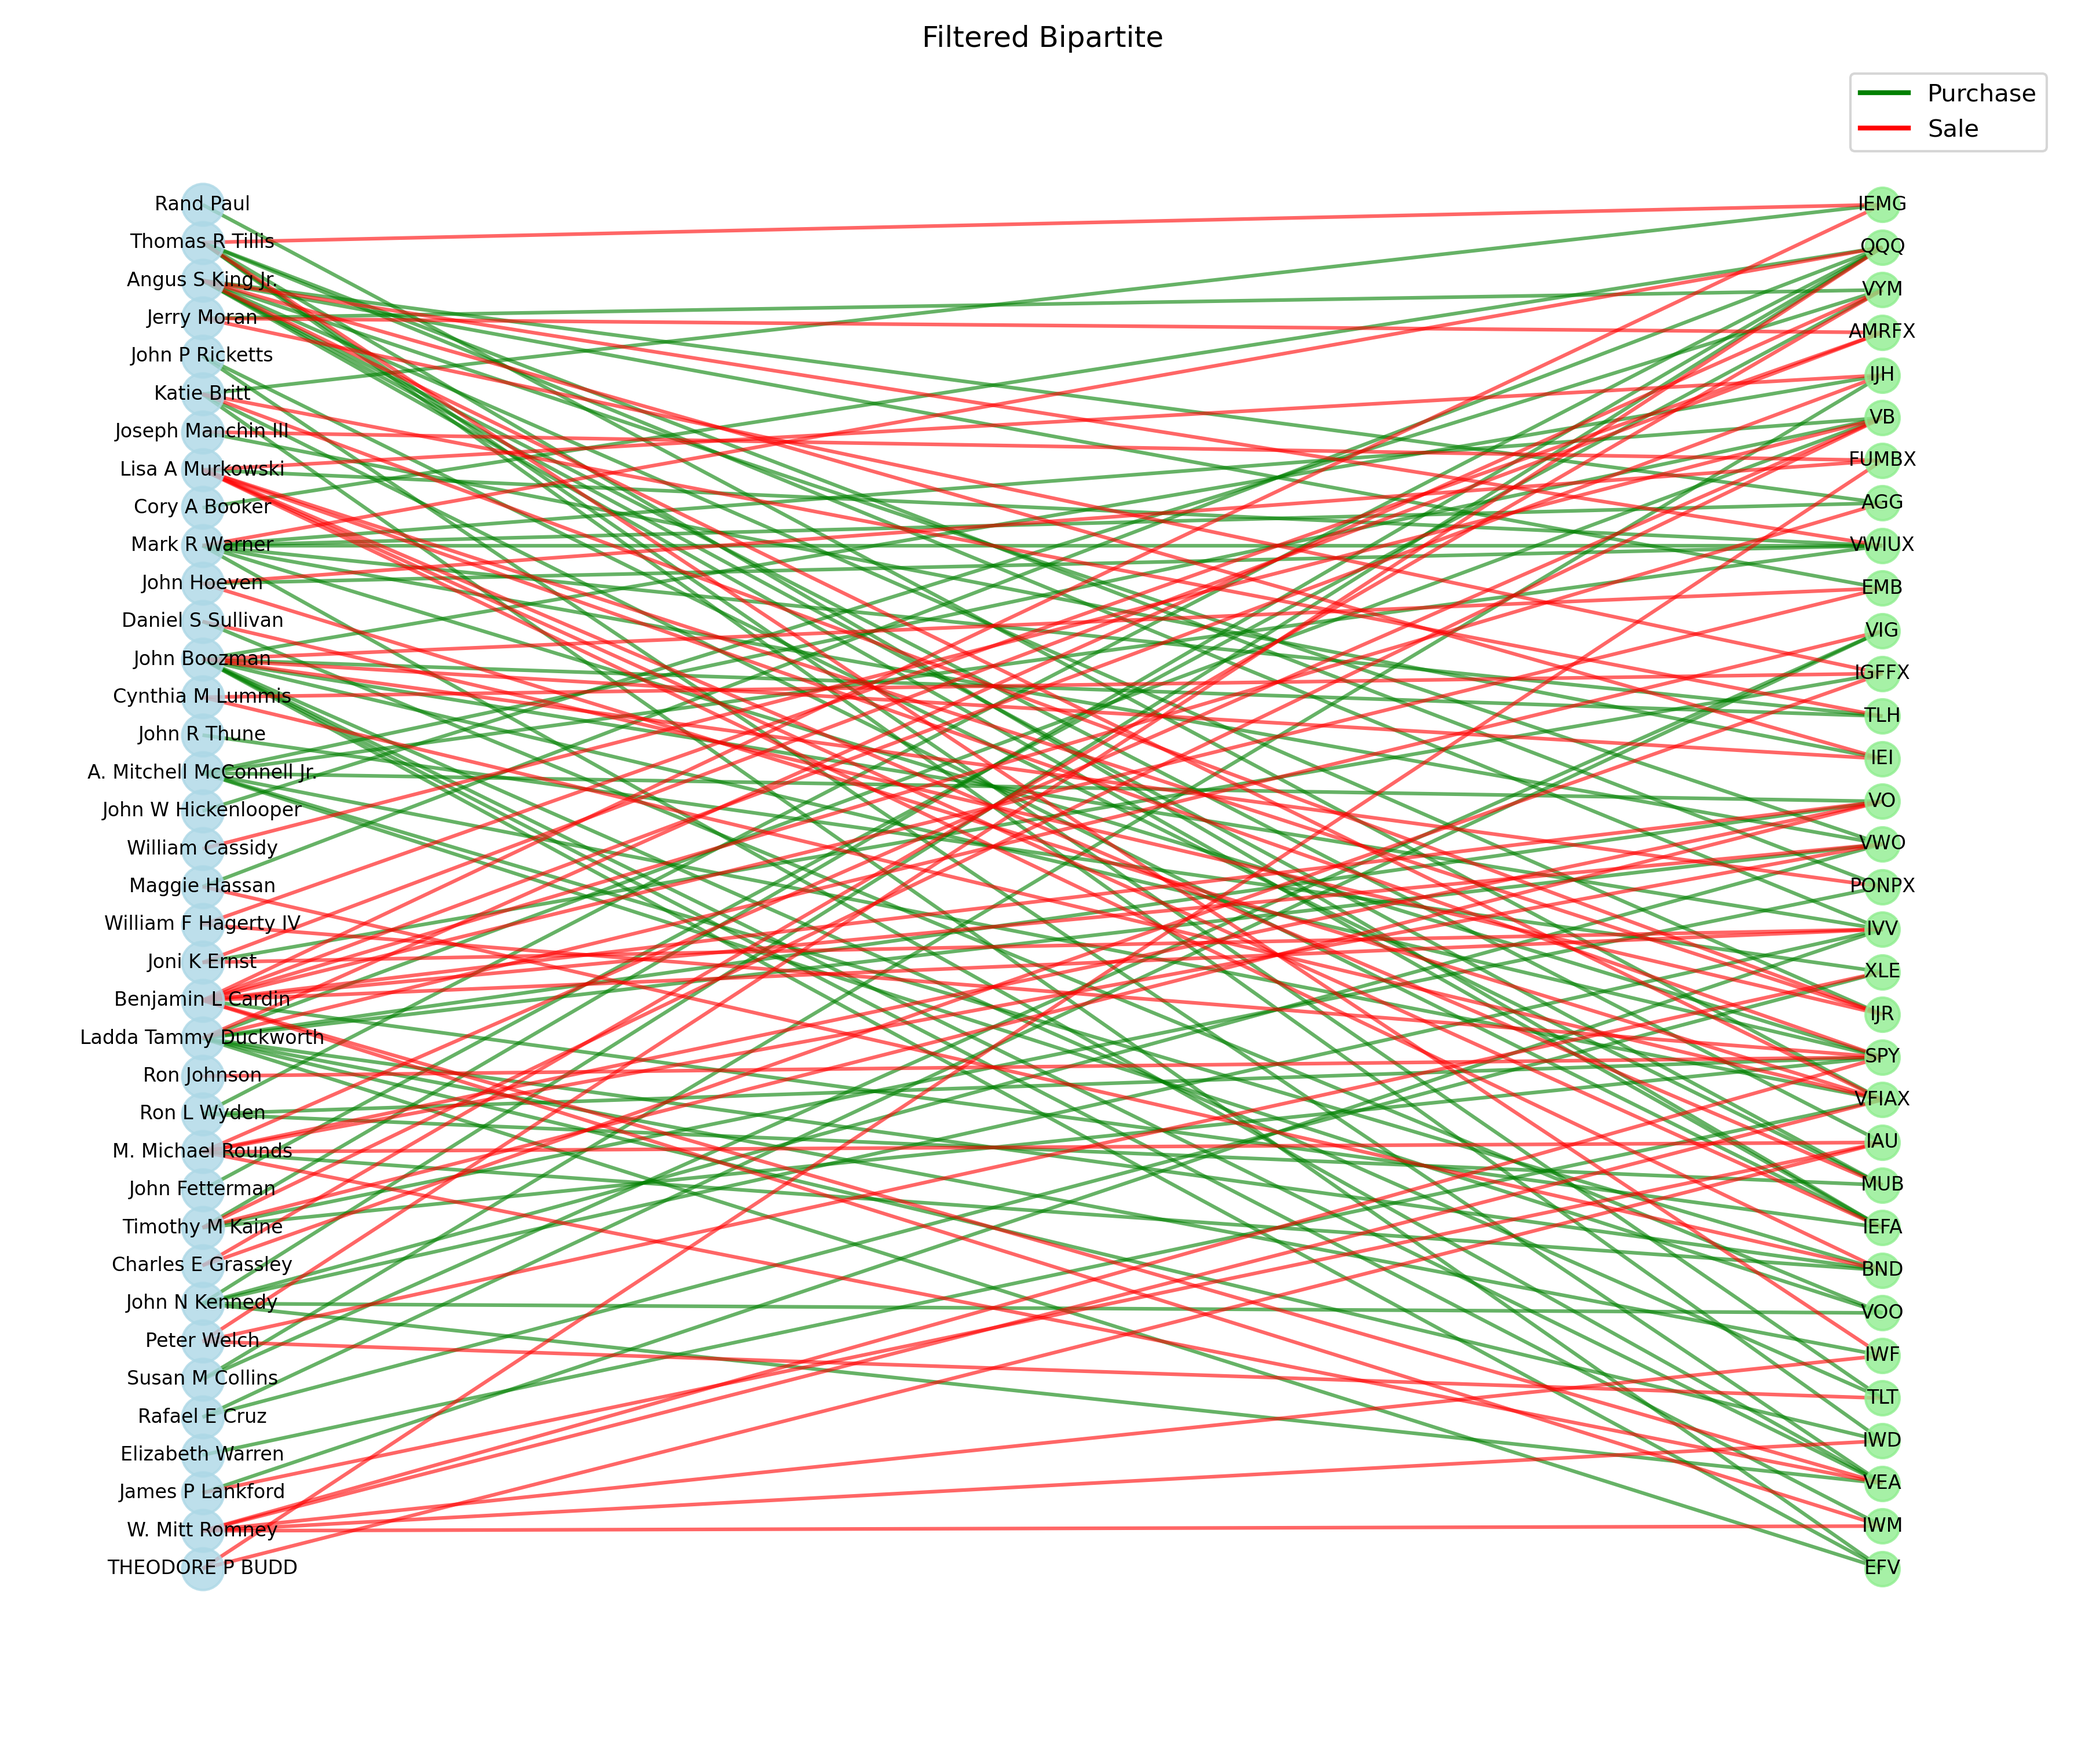
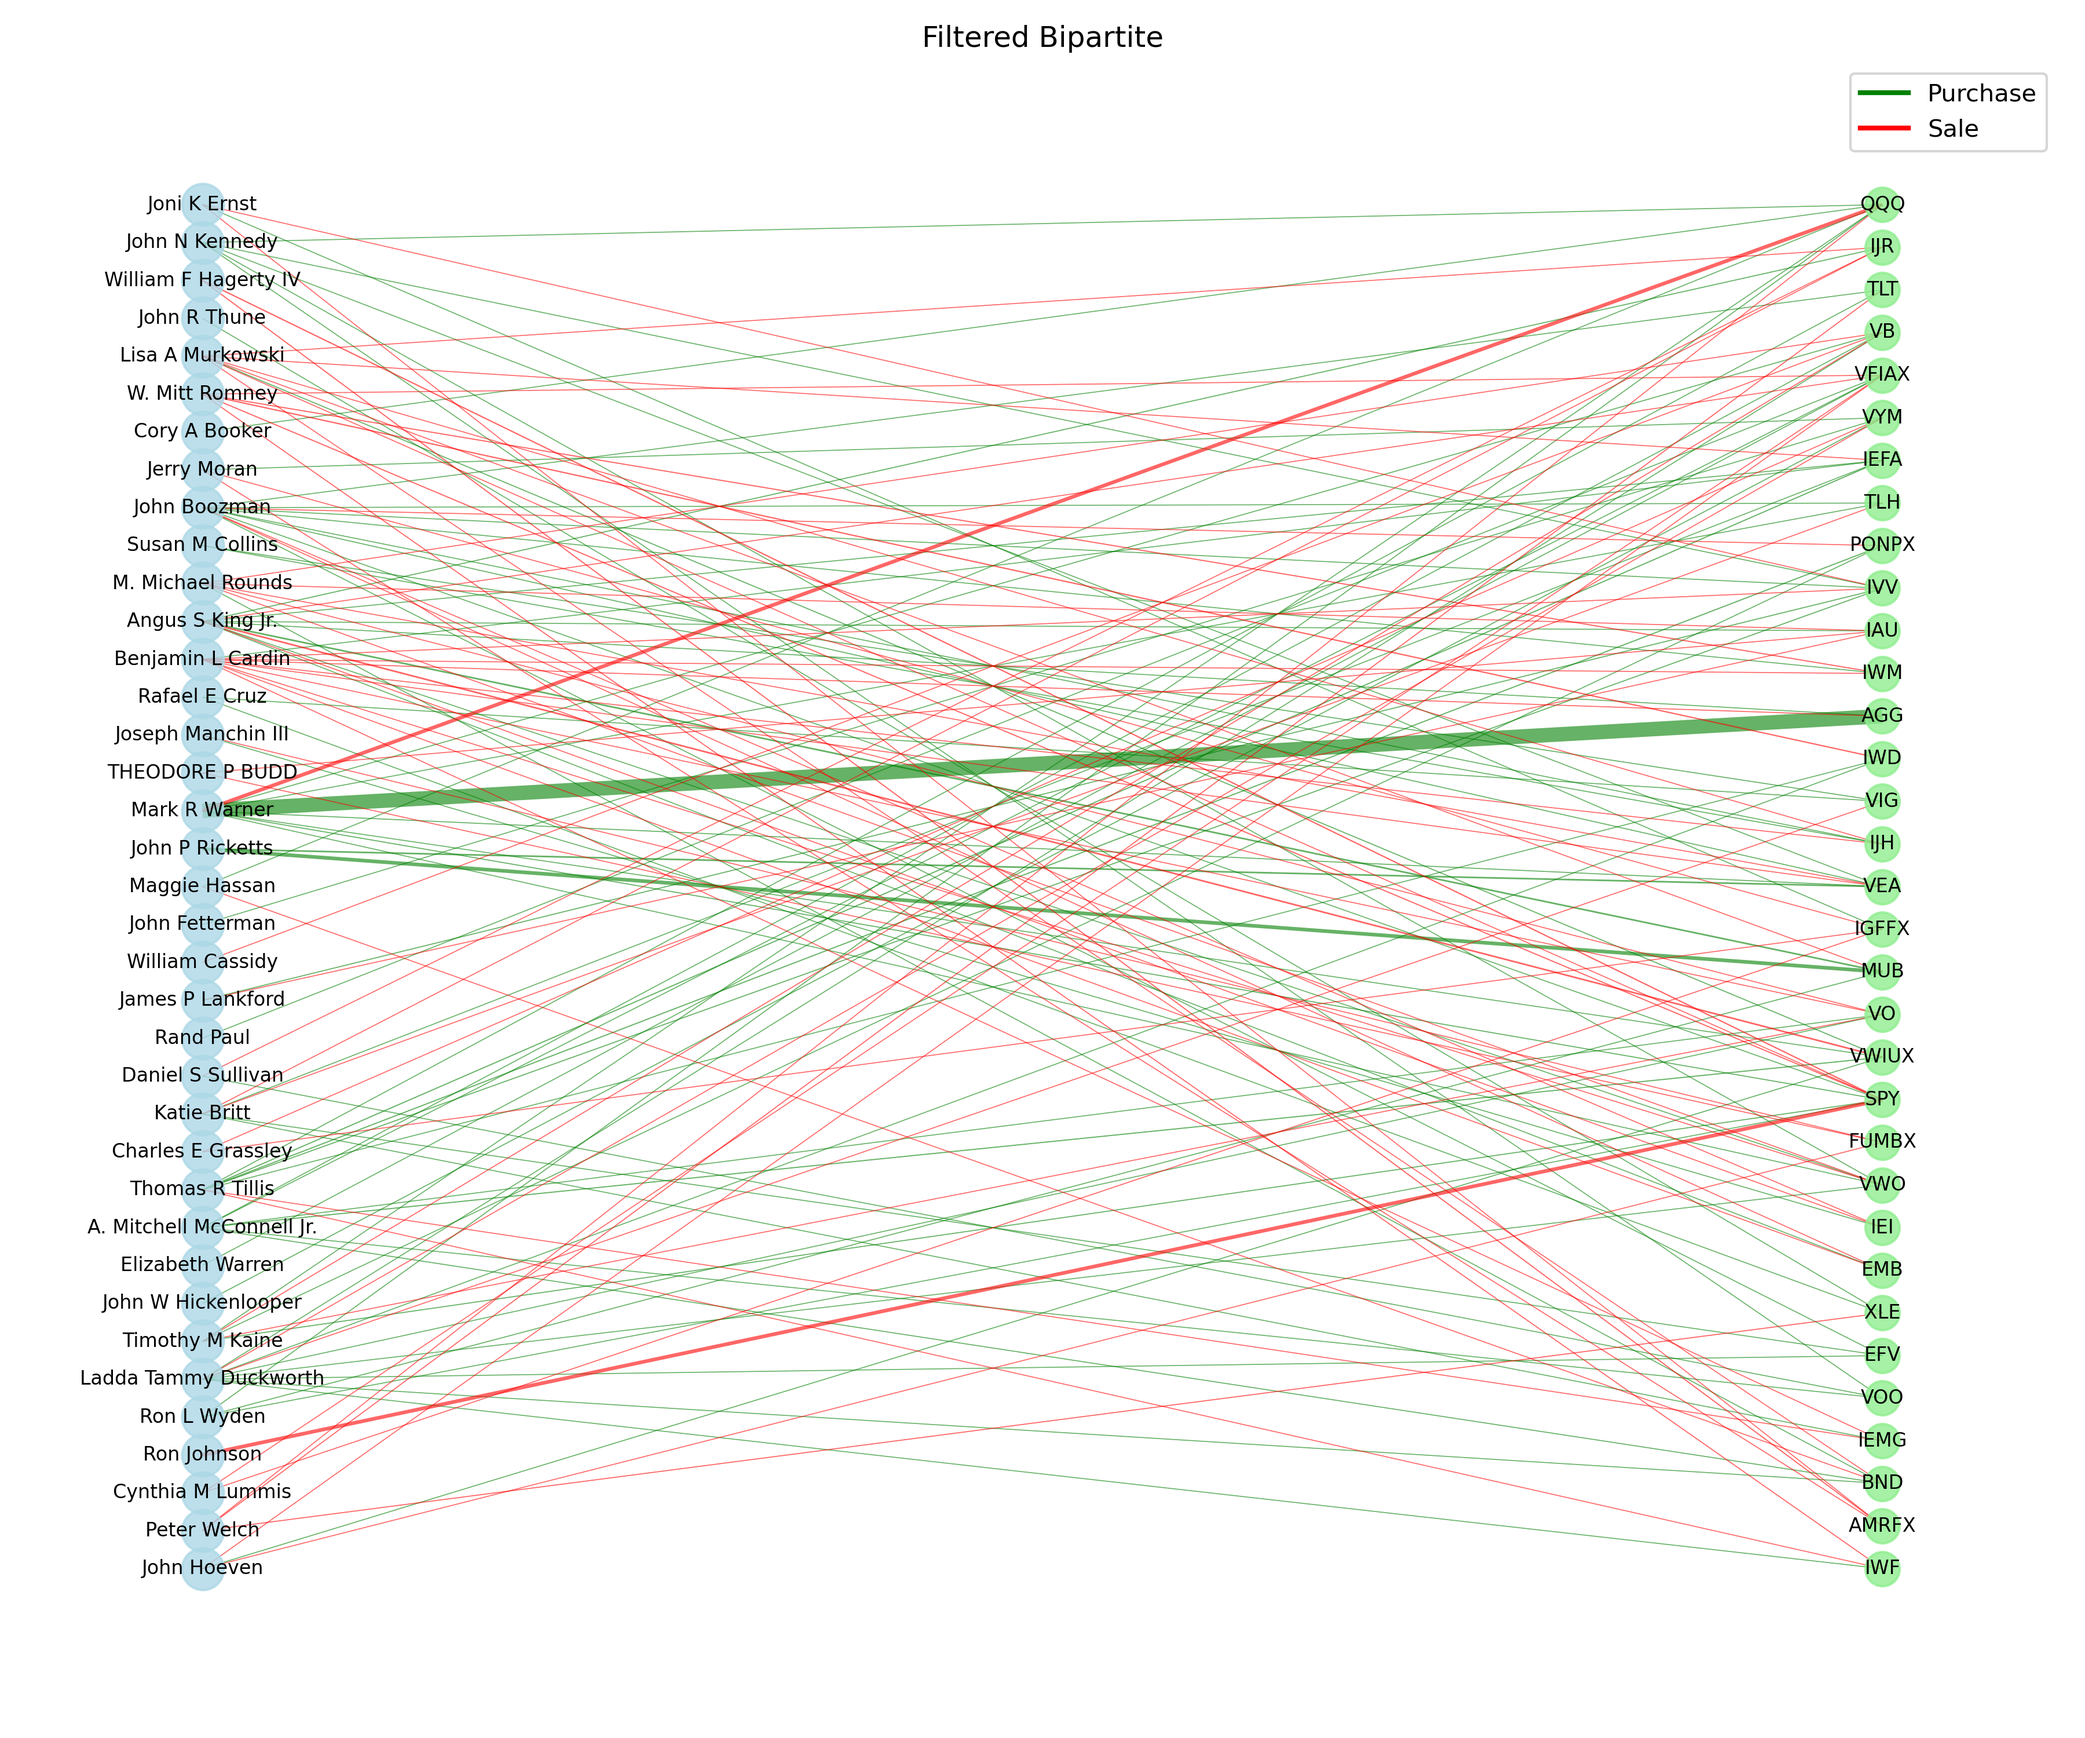
added edge weights based on purchase/sale position size

Changed region(s): [[0.0622, 0.093, 0.9333, 0.93]]

diff --git a/scripts/bipartite_analysis_test.py b/scripts/bipartite_analysis_test.py
@@ -6,10 +6,28 @@ import matplotlib.pyplot as plt
 from pathlib import Path
 from matplotlib.lines import Line2D
 
+
+def parse_amount(amount_str):
+    """
+    Convert an amount range string like "$15,001 - $50,000" to its midpoint as a float.
+    """
+    # Strip quotes, commas, dollar signs
+    s = amount_str.strip().replace('"', '').replace(',', '').replace('$', '')
+    try:
+        low, high = map(int, s.split(' - '))
+    except ValueError:
+        # Fallback: if single value or malformed, try to parse integer
+        try:
+            return float(s)
+        except ValueError:
+            return 0.0
+    return (low + high) / 2.0
+
+
 def load_senator_data(filepath):
     """
     Load senator stock transaction data from a CSV file.
-    Returns the senator name and a list of (ticker, transaction_type) tuples.
+    Returns the senator name and a list of (ticker, transaction_type, amount) tuples.
     """
     senator_name = Path(filepath).stem
     transactions = []
@@ -19,10 +37,9 @@ def load_senator_data(filepath):
         for row in reader:
             ticker = row.get('Ticker', '').strip()
             txn_raw = row.get('Transaction Type', '').strip().lower()
-            # skip missing or placeholder tickers
-            if not ticker or ticker == '--':
-                continue
-            if not txn_raw:
+            amt_raw = row.get('Amount', '')
+            # skip missing or placeholder tickers or missing transactions
+            if not ticker or ticker == '--' or not txn_raw:
                 continue
 
             # Classify transaction
@@ -31,17 +48,19 @@ def load_senator_data(filepath):
             elif txn_raw.startswith('purchase') or txn_raw.startswith('buy'):
                 txn_type = 'purchase'
             else:
-                # skip other transaction types
                 continue
 
-            transactions.append((ticker, txn_type))
+            # Parse the amount range into a numeric weight
+            amount = parse_amount(amt_raw)
+            transactions.append((ticker, txn_type, amount))
 
     return senator_name, transactions
 
 
 def create_bipartite_graph(data_dir):
     """
-    Create a bipartite graph between senators and stock tickers, tagging edges by transaction type.
+    Create a bipartite graph between senators and stock tickers,
+    tagging edges by transaction type and weight.
     """
     G = nx.Graph()
     senator_nodes = set()
@@ -53,16 +72,17 @@ def create_bipartite_graph(data_dir):
         filepath = os.path.join(data_dir, filename)
         senator, trans_list = load_senator_data(filepath)
 
-        # only add senators that have valid transactions
         if not trans_list:
             continue
         G.add_node(senator, bipartite=0)
         senator_nodes.add(senator)
 
-        for ticker, txn_type in trans_list:
+        for ticker, txn_type, amount in trans_list:
             G.add_node(ticker, bipartite=1)
             ticker_nodes.add(ticker)
-            G.add_edge(senator, ticker, transaction=txn_type)
+            G.add_edge(senator, ticker,
+                       transaction=txn_type,
+                       weight=amount)
 
     return G, senator_nodes, ticker_nodes
 
@@ -72,18 +92,14 @@ def filter_by_degree(G, senator_nodes, ticker_nodes, min_degree):
     Filter the bipartite graph to include only tickers with degree >= min_degree
     and the senators connected to them.
     """
-    # compute degree for each ticker
     ticker_deg = {t: G.degree(t) for t in ticker_nodes}
-    # select tickers above threshold
     filtered_tickers = {t for t, deg in ticker_deg.items() if deg >= min_degree}
 
-    # find senators connected to those tickers
     filtered_senators = {
         nbr for t in filtered_tickers for nbr in G.neighbors(t)
         if nbr in senator_nodes
     }
 
-    # induce subgraph
     sub_nodes = filtered_senators.union(filtered_tickers)
     H = G.subgraph(sub_nodes).copy()
     return H, filtered_senators, filtered_tickers
@@ -91,25 +107,59 @@ def filter_by_degree(G, senator_nodes, ticker_nodes, min_degree):
 
 def visualize_bipartite_graph(G, senator_nodes, ticker_nodes, title):
     """
-    Plot the bipartite graph, coloring purchase edges green and sale edges red.
+    Plot the bipartite graph, coloring purchase edges green and sale edges red,
+    and scaling edge widths by transaction amount.
     """
     plt.figure(figsize=(12, 10))
     pos = nx.bipartite_layout(G, senator_nodes)
 
-    # Draw nodes
-    nx.draw_networkx_nodes(G, pos, nodelist=list(senator_nodes), node_color='lightblue',
-                           node_size=300, alpha=0.8, label='Senators')
-    nx.draw_networkx_nodes(G, pos, nodelist=list(ticker_nodes), node_color='lightgreen',
-                           node_size=200, alpha=0.8, label='Tickers')
+    nx.draw_networkx_nodes(
+        G, pos,
+        nodelist=list(senator_nodes),
+        node_color='lightblue',
+        node_size=300,
+        alpha=0.8,
+        label='Senators'
+    )
+    nx.draw_networkx_nodes(
+        G, pos,
+        nodelist=list(ticker_nodes),
+        node_color='lightgreen',
+        node_size=200,
+        alpha=0.8,
+        label='Tickers'
+    )
 
-    # Separate edges by transaction type
-    purchase_edges = [(u, v) for u, v, d in G.edges(data=True) if d.get('transaction') == 'purchase']
-    sale_edges     = [(u, v) for u, v, d in G.edges(data=True) if d.get('transaction') == 'sale']
+    weights = [d['weight'] for _, _, d in G.edges(data=True)]
+    min_w, max_w = min(weights), max(weights)
+    min_width, max_width = 0.4, 6.0
 
-    nx.draw_networkx_edges(G, pos, edgelist=purchase_edges, edge_color='green', alpha=0.6, width=1.5)
-    nx.draw_networkx_edges(G, pos, edgelist=sale_edges,     edge_color='red',   alpha=0.6, width=1.5)
+    edge_width = {}
+    for u, v, d in G.edges(data=True):
+        if max_w > min_w:
+            norm = (d['weight'] - min_w) / (max_w - min_w)
+        else:
+            norm = 1.0
+        edge_width[(u, v)] = min_width + norm * (max_width - min_width)
 
-    # Labels and legend
+    purchase_edges = [(u, v) for u, v, d in G.edges(data=True) if d['transaction'] == 'purchase']
+    sale_edges     = [(u, v) for u, v, d in G.edges(data=True) if d['transaction'] == 'sale']
+
+    nx.draw_networkx_edges(
+        G, pos,
+        edgelist=purchase_edges,
+        edge_color='green',
+        width=[edge_width[(u, v)] for u, v in purchase_edges],
+        alpha=0.6
+    )
+    nx.draw_networkx_edges(
+        G, pos,
+        edgelist=sale_edges,
+        edge_color='red',
+        width=[edge_width[(u, v)] for u, v in sale_edges],
+        alpha=0.6
+    )
+
     nx.draw_networkx_labels(G, pos, font_size=8)
     legend_elements = [
         Line2D([0], [0], color='green', lw=2, label='Purchase'),
@@ -135,6 +185,7 @@ def main():
     print(f"Filtered graph: {len(filtered_senators)} senators, {len(filtered_tickers)} tickers, {H.number_of_edges()} edges")
 
     visualize_bipartite_graph(H, filtered_senators, filtered_tickers, "Filtered Bipartite")
+
 
 if __name__ == '__main__':
     main()
